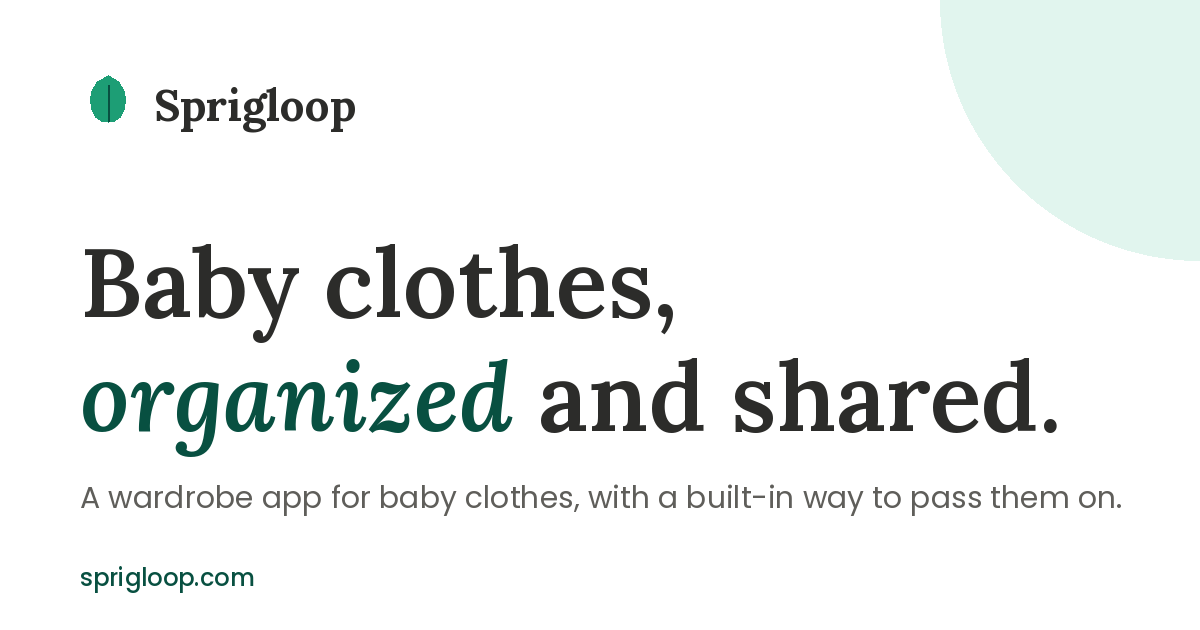
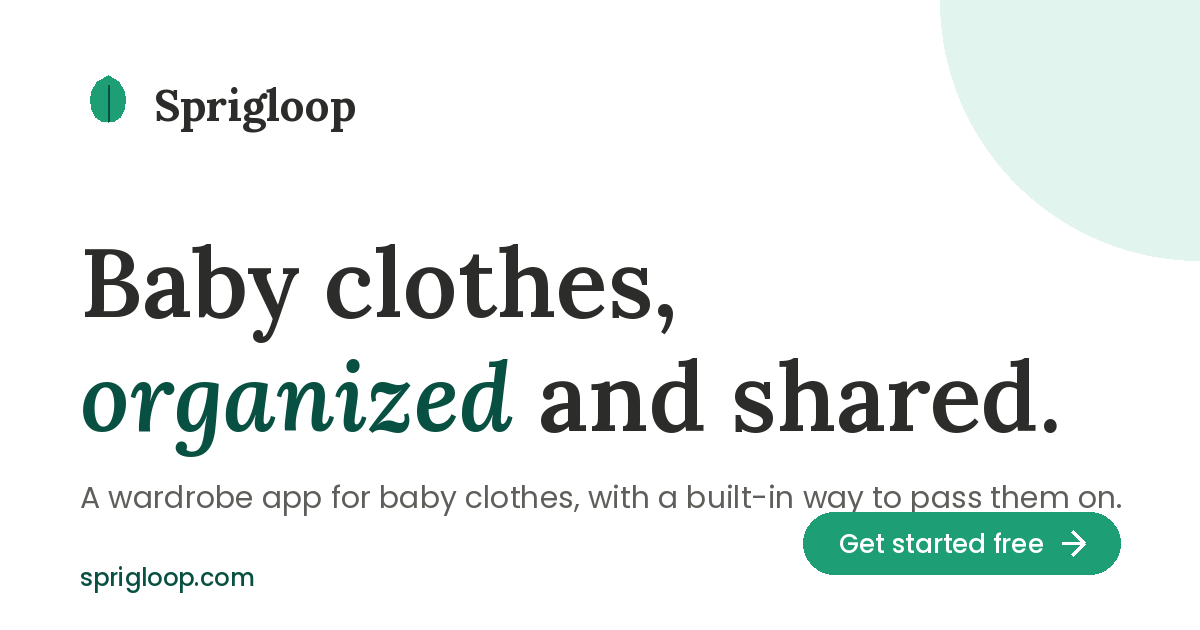
SEO: tighten title/description copy, add CTA to OG image

Changed region(s): [[0.6475, 0.8143, 0.9558, 0.9349]]

diff --git a/index.html b/index.html
@@ -4,8 +4,8 @@
     <meta charset="UTF-8" />
     <meta name="viewport" content="width=device-width, initial-scale=1.0, maximum-scale=1.0" />
     <link rel="icon" type="image/svg+xml" href="/favicon.svg" />
-    <title>Sprigloop — baby clothing, organized and shared</title>
-    <meta name="description" content="Track every onesie, plan every size, and pass along what your little one has outgrown — to a family who needs it most." />
+    <title>Sprigloop: the wardrobe app for baby clothes you'll pass on</title>
+    <meta name="description" content="Track every onesie, plan every size, and pass along what your little one has outgrown to another Sprigloop family." />
     <link rel="canonical" href="https://sprigloop.com/" />
     <meta name="robots" content="index, follow" />
     <meta name="theme-color" content="#FAF7F2" />
@@ -13,20 +13,20 @@
     <!-- Open Graph -->
     <meta property="og:type" content="website" />
     <meta property="og:site_name" content="Sprigloop" />
-    <meta property="og:title" content="Sprigloop — baby clothing, organized and shared" />
-    <meta property="og:description" content="Track every onesie, plan every size, and pass along what your little one has outgrown — to a family who needs it most." />
+    <meta property="og:title" content="Sprigloop: the wardrobe app for baby clothes you'll pass on" />
+    <meta property="og:description" content="Track every onesie, plan every size, and pass along what your little one has outgrown to another Sprigloop family." />
     <meta property="og:url" content="https://sprigloop.com/" />
     <meta property="og:image" content="https://sprigloop.com/og-image.png" />
     <meta property="og:image:width" content="1200" />
     <meta property="og:image:height" content="630" />
-    <meta property="og:image:alt" content="Sprigloop — baby clothing, organized and shared" />
+    <meta property="og:image:alt" content="Sprigloop: baby clothes, organized and shared." />
 
     <!-- Twitter -->
     <meta name="twitter:card" content="summary_large_image" />
-    <meta name="twitter:title" content="Sprigloop — baby clothing, organized and shared" />
-    <meta name="twitter:description" content="Track every onesie, plan every size, and pass along what your little one has outgrown — to a family who needs it most." />
+    <meta name="twitter:title" content="Sprigloop: the wardrobe app for baby clothes you'll pass on" />
+    <meta name="twitter:description" content="Track every onesie, plan every size, and pass along what your little one has outgrown to another Sprigloop family." />
     <meta name="twitter:image" content="https://sprigloop.com/og-image.png" />
-    <meta name="twitter:image:alt" content="Sprigloop — baby clothing, organized and shared" />
+    <meta name="twitter:image:alt" content="Sprigloop: baby clothes, organized and shared." />
   </head>
   <body>
     <div id="root"></div>
